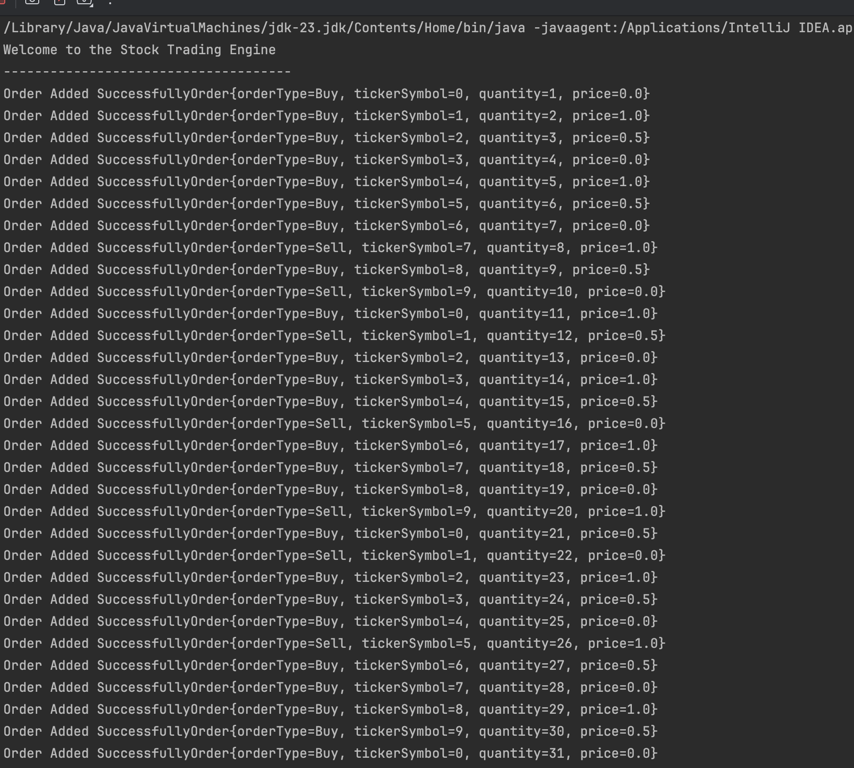
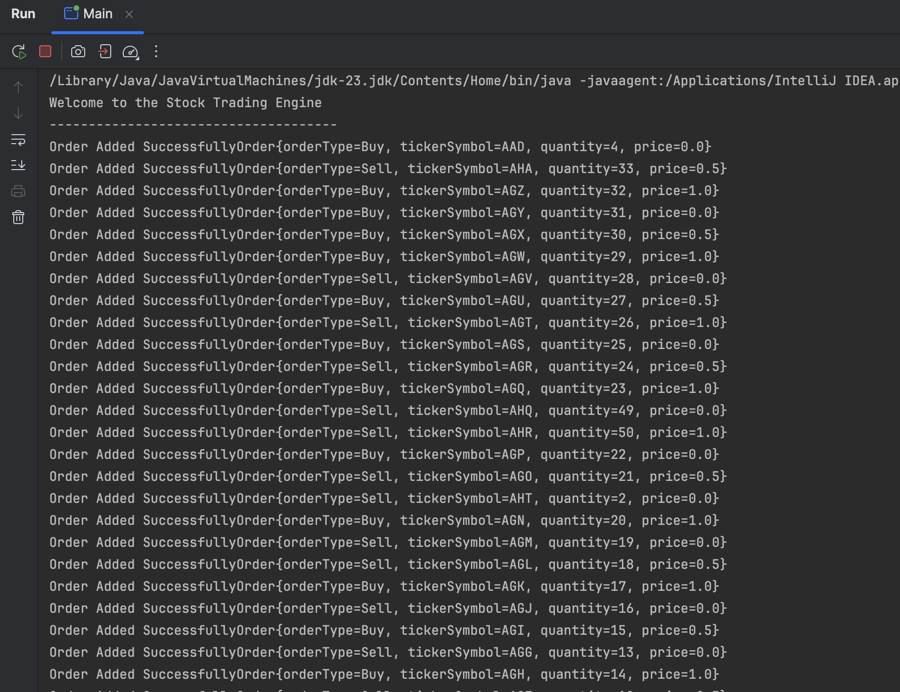
improved multithreading functionality

Changed region(s): [[0.0, 0.0, 1.0, 1.0]]

diff --git a/src/Main.java b/src/Main.java
@@ -6,25 +6,25 @@ public class Main {
         System.out.println("Welcome to the Stock Trading Engine");
         System.out.println("-------------------------------------");
         StockTradingEngine stockTradingEngine = new StockTradingEngine();
-
-        // Threads to add orders
-        Thread addOrdersThread = new Thread(() -> {
-            for (int i = 0; i <= 1000; i++) {
-
+        // Generate 1,024 unique ticker symbols
+        String[] tickerSymbols = generateTickerSymbols(1024);
+        Thread[] addOrderThreads = new Thread[tickerSymbols.length];
+        for (int i = 0; i < 1024; i++) {
+            int finalI = i;
+            addOrderThreads[i] = new Thread(() -> {
                 OrderType orderType = randomEnum(OrderType.class);
-                int tickerSymbol = i % 10;
-                int quantity = i % 50 + 1;
-                float price = i % 1.5f;
+                String tickerSymbol = tickerSymbols[finalI % tickerSymbols.length];
+                int quantity = finalI % 50 + 1;
+                float price = finalI % 1.5f;
                 stockTradingEngine.addOrder(orderType, tickerSymbol, quantity, price);
-
-            }
-        });
+            });
+        }
 
         // Threads to match orders
         Thread matchOrdersThread = new Thread(() -> {
             while (true) {
-                for (int j = 0; j <= 1000; j++) {
-                    int tickerSymbol = j % 10;
+                for (String tickerSymbol : tickerSymbols) {
+                   // int tickerSymbol = j % 10;
                     stockTradingEngine.matchOrder(tickerSymbol);
                 }
                 try {
@@ -36,12 +36,16 @@ public class Main {
         });
 
         // Start both threads
-        addOrdersThread.start();
         matchOrdersThread.start();
+        for (Thread thread : addOrderThreads) {
+            thread.start();
+        }
 
         // Wait for add orders thread to finish
         try {
-            addOrdersThread.join();
+            for (Thread thread : addOrderThreads) {
+                thread.join();
+            }
         } catch (InterruptedException e) {
             e.printStackTrace();
         }
@@ -51,8 +55,26 @@ public class Main {
 
     }
 
+    // Generate 1,024 unique ticker symbols like AAA, AAB, AAC, ..., ZZZ
+    public static String[] generateTickerSymbols(int count) {
+        String[] symbols = new String[count];
+        int index = 0;
+        for (char i = 'A'; i <= 'Z'; i++) {
+            for (char j = 'A'; j <= 'Z'; j++) {
+                for (char k = 'A'; k <= 'Z'; k++) {
+                    if (index < count) {
+                        symbols[index++] = "" + i + j + k;
+                    } else {
+                        return symbols;
+                    }
+                }
+            }
+        }
+        return symbols;
+    }
 
-    //to generate random order type
+
+    //Generate random order type
     public static <T extends Enum<T>> T randomEnum(Class<T> enumClass) {
         T[] enumConstants = enumClass.getEnumConstants();
         if (enumConstants == null) {
@@ -61,4 +83,6 @@ public class Main {
         int randomIndex = new Random().nextInt(enumConstants.length);
         return enumConstants[randomIndex];
     }
+
+
 }

diff --git a/src/StockTradingEngine.java b/src/StockTradingEngine.java
@@ -14,25 +14,24 @@ public class StockTradingEngine {
     private static final int[] sellIndex = new int[MAX_TICKERS];
 
     //add buy order and sell order to their respective 2-D array
-    public static synchronized void addOrder(OrderType orderType,int tickerSymbol, int quantity, float price) {
+    public static synchronized void addOrder(OrderType orderType,String tickerSymbol, int quantity, float price) {
         //checks the valid boundaries for the ticker symbol
-        if(tickerSymbol < 0 || tickerSymbol >= MAX_TICKERS) {
-            return;
-        }
+
+        int tickerHash = Math.abs(tickerSymbol.hashCode()) % MAX_TICKERS;
 
         Order order = new Order(orderType, tickerSymbol, quantity, price);
         // for buy order
         if(order.getOrderType() == OrderType.Buy){
-            int idx=buyIndex[tickerSymbol]++;
+            int idx=buyIndex[tickerHash]++;
             if(idx < MAX_ORDERS_PER_TICKER) {
-                buyOrders[tickerSymbol][idx] = order;
+                buyOrders[tickerHash][idx] = order;
             }
         }
         //for sell order
         else{
-            int idx=sellIndex[tickerSymbol]++;
+            int idx=sellIndex[tickerHash]++;
             if(idx < MAX_ORDERS_PER_TICKER) {
-                sellOrders[tickerSymbol][idx] = order;
+                sellOrders[tickerHash][idx] = order;
             }
         }
         System.out.println("Order Added Successfully"+ order.toString());
@@ -40,18 +39,19 @@ public class StockTradingEngine {
     }
 
     //to match buy order and sell order
-    public static synchronized void matchOrder(int tickerSymbol) {
+    public static synchronized void matchOrder(String tickerSymbol) {
+        int tickerHash = Math.abs(tickerSymbol.hashCode()) % MAX_TICKERS;
         //gets buy count for the given tickerSymbol
-        int buyCount = buyIndex[tickerSymbol];
+        int buyCount = buyIndex[tickerHash];
         //gets sell count for the given tickerSymbol
-        int sellCount = sellIndex[tickerSymbol];
+        int sellCount = sellIndex[tickerHash];
         for(int i = 0; i < buyCount; i++) {
-            Order buyOrder = buyOrders[tickerSymbol][i];
+            Order buyOrder = buyOrders[tickerHash][i];
             //checks for active and valid buy order
             if(buyOrder == null || !buyOrder.isActive() )
                 continue;
             for(int j = 0; j < sellCount; j++) {
-                Order sellOrder = sellOrders[tickerSymbol][j];
+                Order sellOrder = sellOrders[tickerHash][j];
                 //checks for active and valid sell and buy order
                 if(sellOrder == null || !sellOrder.isActive() || !buyOrder.isActive() )
                     continue;

diff --git a/src/Order.java b/src/Order.java
@@ -1,7 +1,7 @@
 
 public class Order {
     private OrderType orderType; //Buy or Sell
-    private int tickerSymbol;
+    private String tickerSymbol;
     private int quantity;
     private float price;
     private boolean active; // lock-free synchronization
@@ -11,7 +11,7 @@ public class Order {
     }
 
     //Parameterized Constructor
-    public Order(OrderType orderType, int tickerSymbol, int quantity, float price) {
+    public Order(OrderType orderType, String tickerSymbol, int quantity, float price) {
         this.orderType = orderType;
         this.tickerSymbol = tickerSymbol;
         this.quantity = quantity;
@@ -27,11 +27,11 @@ public class Order {
         this.orderType = orderType;
     }
 
-    public int getTickerSymbol() {
+    public String getTickerSymbol() {
         return tickerSymbol;
     }
 
-    public void setTickerSymbol(int tickerSymbol) {
+    public void setTickerSymbol(String tickerSymbol) {
         this.tickerSymbol = tickerSymbol;
     }
 
